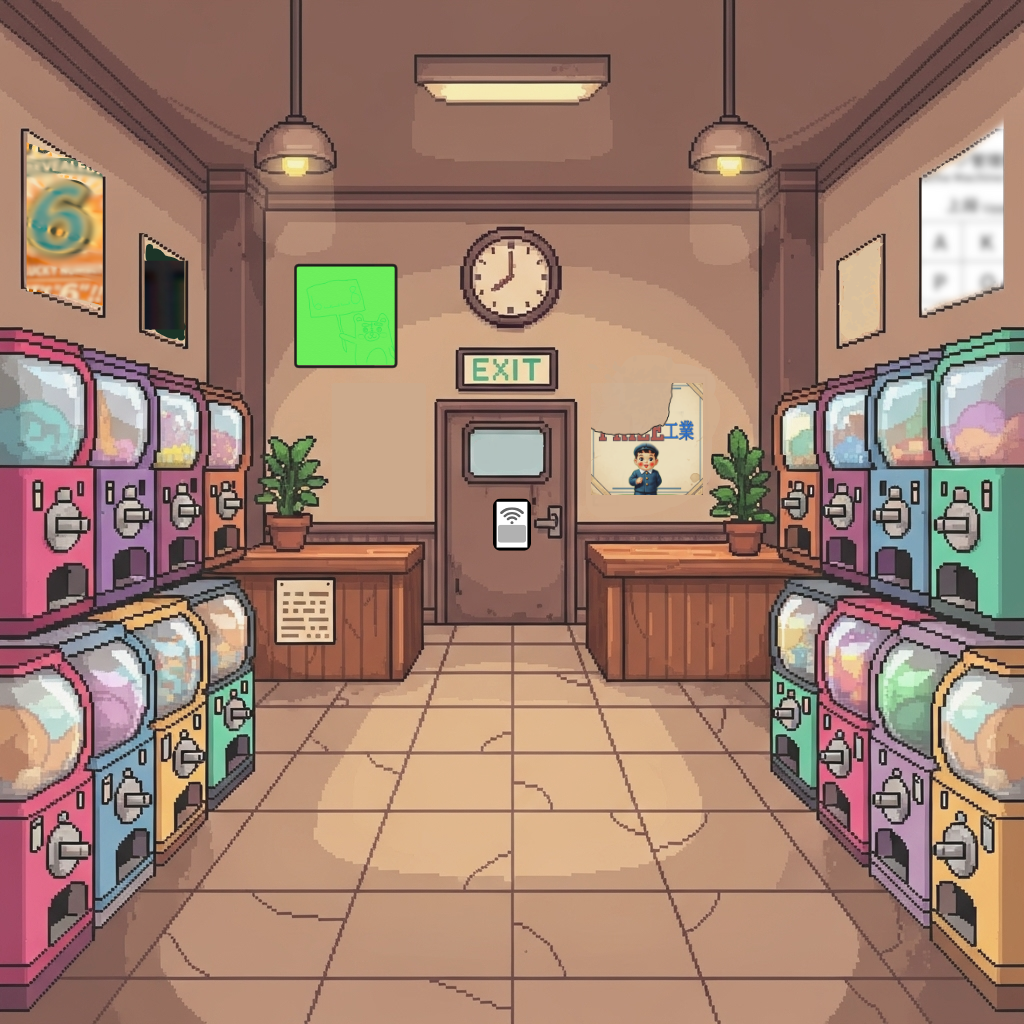
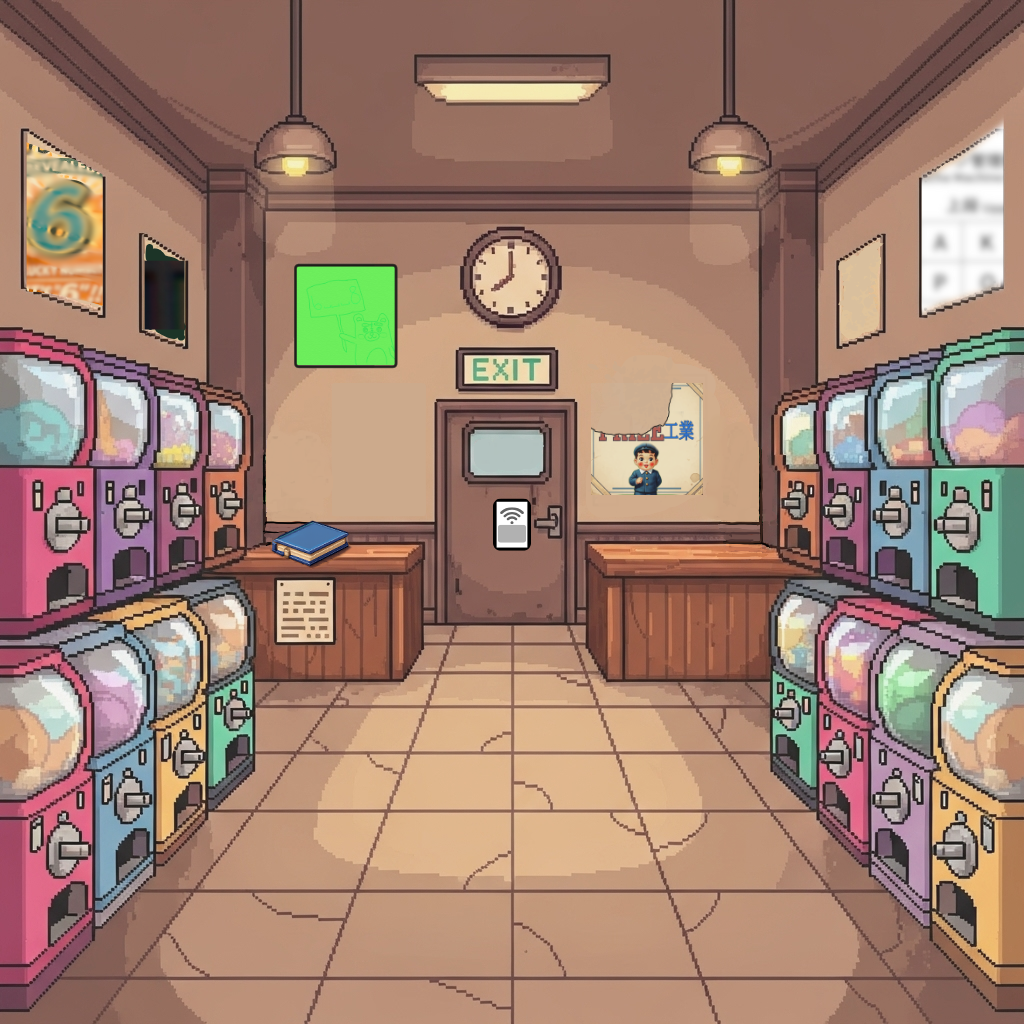
25 add

Changed region(s): [[0.25, 0.4062, 0.3438, 0.5625], [0.6875, 0.4062, 0.75, 0.5625]]

diff --git a/8f3c9a2d7b.html b/8f3c9a2d7b.html
@@ -1276,12 +1276,11 @@
 
                 main: ['images/25/main.png'],
                 window: ['images/25/window.png', 'images/25/window2.png', 'images/25/window3.png', 'images/25/window4.png', 'images/25/window5.png'],
-                outside: ['images/25/outside.png'],
                 gachaRight: ['images/25/gacha_right.png'],
                 gachaLeft: ['images/25/gacha_left.png'],
 
                 end: ['images/25/end.png', 'images/25/end2.png'],
-                trueEnd: ['images/25/true_end.png'],
+                trueEnd: ['images/25/true_end.png', 'images/25/true_end2.jpeg'],
 
             },
             items: {
@@ -1345,8 +1344,9 @@
                 posterBear: 'images/25/modal_poster_bear.png',
                 posterBear3d: 'images/25/modal_poster_bear_3d.png',
                 capsuleHeaven: 'images/25/capsule_heaven.mp4',
-                map: 'images/25/map.png',
+                map: 'images/25/map.jpeg',
                 bearGlass: 'images/25/modal_bear_glass.jpeg',
+                glassQuestion: 'images/25/modal_glass_question.png',
                 badEnd: 'images/25/badend.png',
             },
         };
@@ -1529,7 +1529,7 @@
                     {
                         x: 44.7, y: 22.1, width: 10.2, height: 10.1,
                         onClick: clickWrap(function () {
-
+                            updateMessage('時計がある');
                         }),
                         description: '時計',
                         zIndex: 5,
@@ -1645,42 +1645,43 @@
                         usable: () => true,
                         item: { img: 'IMAGE_KEY', visible: () => true }
                     },
-                    {
-                        x: 69.3, y: 41.9, width: 5.9, height: 12.1,
-                        onClick: clickWrap(function () {
-                            updateMessage('何の変哲もない観葉植物だ');
-                        }),
-                        description: '植物右',
-                        zIndex: 1,
-                        usable: () => true,
-                        item: { img: 'IMAGE_KEY', visible: () => true }
-                    },
-                    {
-                        x: 70.5, y: 47.7, width: 3.5, height: 4.0,
-                        onClick: clickWrap(function () {
-                            acquireItemOnce('foundMedal', 'medal', 'メダルを見つけた', IMAGES.items.medal, 'メダルを手に入れた');
-                        }),
-                        description: '植物光、メダル',
-                        zIndex: 5,
-                        usable: () => gameState.main.flags.appearMedal && !gameState.main.flags.foundMedal,
-                        item: { img: 'shine', visible: () => gameState.main.flags.appearMedal && !gameState.main.flags.foundMedal }
-                    },
-                    {
-                        x: 25.4, y: 42.5, width: 6.1, height: 11.1,
-                        onClick: clickWrap(function () {
-                            updateMessage('何の変哲もない観葉植物だ');
-                        }),
-                        description: '植物左',
-                        zIndex: 5,
-                        usable: () => true,
-                        item: { img: 'IMAGE_KEY', visible: () => true }
-                    },
+                    // {
+                    //     x: 69.3, y: 41.9, width: 5.9, height: 12.1,
+                    //     onClick: clickWrap(function () {
+                    //         updateMessage('何の変哲もない観葉植物だ');
+                    //     }),
+                    //     description: '植物右',
+                    //     zIndex: 1,
+                    //     usable: () => true,
+                    //     item: { img: 'IMAGE_KEY', visible: () => true }
+                    // },
+
+                    // {
+                    //     x: 25.4, y: 42.5, width: 6.1, height: 11.1,
+                    //     onClick: clickWrap(function () {
+                    //         updateMessage('何の変哲もない観葉植物だ');
+                    //     }),
+                    //     description: '植物左',
+                    //     zIndex: 5,
+                    //     usable: () => true,
+                    //     item: { img: 'IMAGE_KEY', visible: () => true }
+                    // },
                     {
                         x: 26.7, y: 56.4, width: 6.1, height: 6.4,
                         onClick: clickWrap(function () {
                             updateMessage('「実験のため留守にします。クマ店主」と書いてある');
                         }),
                         description: 'カウンター貼り紙',
+                        zIndex: 5,
+                        usable: () => true,
+                        item: { img: 'IMAGE_KEY', visible: () => true }
+                    },
+                    {
+                        x: 26.2, y: 50.3, width: 8.0, height: 5.1,
+                        onClick: clickWrap(function () {
+                            talkToHintCharacter('main', 'diary');
+                        }),
+                        description: '本',
                         zIndex: 5,
                         usable: () => true,
                         item: { img: 'IMAGE_KEY', visible: () => true }
@@ -1826,9 +1827,9 @@
                                 renderCanvasRoom();
                                 showObj(
                                     null,
-                                    '…カツヨウ…<br>チリーン…<br>ドアのほうで音がした。',
+                                    '「…カツヨウ…」<br>チリーン…<br>近くで音がした。',
                                     IMAGES.modals.ghost1,
-                                    'カプセル君「…カツヨウ…」ドアのほうでチリーンと音がした。'
+                                    'カプセル君「…カツヨウ…」近くでチリーンと音がした。'
                                 );
                                 playSE('se-coin');
                             }
@@ -1893,9 +1894,24 @@
                         item: { img: 'coinYen', visible: () => !gameState.main.flags.foundYen }
                     },
                     {
+                        x: 60.2, y: 76.5, width: 4.7, height: 2.9,
+                        onClick: clickWrap(function () {
+                            acquireItemOnce('foundMedal', 'medal', 'メダルを見つけた', IMAGES.items.medal, 'メダルを手に入れた');
+                        }),
+                        description: 'メダル',
+                        zIndex: 5,
+                        usable: () => gameState.main.flags.appearMedal && !gameState.main.flags.foundMedal,
+                        item: { img: 'shine', visible: () => gameState.main.flags.appearMedal && !gameState.main.flags.foundMedal }
+                    },
+                    {
                         x: 11.3, y: 55.6, width: 29.8, height: 22.4,
                         onClick: clickWrap(function () {
-                            showBoxPuzzle();
+                            if (gameState.main.flags.gachaRight.solved) {
+                                showBoxPuzzle();
+                            } else {
+                                updateMessage('まだ反応がない…');
+                            }
+
                         }),
                         description: '箱閉じる',
                         zIndex: 5,
@@ -2219,6 +2235,16 @@
                         item: { img: 'capsuleBlue', visible: () => gachaLeft_isCapsuleVisible('g2') }
                     },
                     {
+                        x: 27.0, y: 56.1, width: 21.2, height: 14.2,
+                        onClick: clickWrap(function () {
+                            updateMessage('このガチャは無料なのかな？');
+                        }),
+                        description: 'FREEガチャ',
+                        zIndex: 5,
+                        usable: () => true,
+                        item: { img: 'IMAGE_KEY', visible: () => true }
+                    },
+                    {
                         x: 32.0, y: 76.3, width: 10.7, height: 9.8,
                         onClick: clickWrap(function () {
                             if (gameState.selectedItem == 'handleToy') {
@@ -2266,7 +2292,7 @@
                         }),
                         description: '無地のガチャカプセル取り出し口',
                         zIndex: 5,
-                        usable: () => gameState.main.flags.appearCard && !gameState.main.flags.gotCard ,
+                        usable: () => gameState.main.flags.appearCard && !gameState.main.flags.gotCard,
                         item: { img: 'cardKey', visible: () => gameState.main.flags.appearCard && !gameState.main.flags.gotCard }
                     },
                     {
@@ -2565,13 +2591,25 @@
                             if (gameState.selectedItem == 'glass') {
                                 showObj(null, 'クマ妖精に3Dメガネを渡してみた<br>「似合う？」', IMAGES.modals.bearGlass, 'クマ妖精に3Dメガネを渡した');
                                 removeItem('glass');
+                                gameState.trueEnd.flags.backgroundState++;
+                                renderCanvasRoom();
                             } else {
                                 updateMessage('カプセルの分解具合を眺めているようだ');
                             }
                         }),
                         description: 'クマ妖精',
                         zIndex: 5,
-                        usable: () => true,
+                        usable: () => gameState.trueEnd.flags.backgroundState == 0,
+                        item: { img: 'IMAGE_KEY', visible: () => true }
+                    },
+                    {
+                        x: 25.2, y: 14.3, width: 48.0, height: 57.5,
+                        onClick: clickWrap(function () {
+                            updateMessage('えへへ');
+                        }),
+                        description: '立ったクマ妖精',
+                        zIndex: 5,
+                        usable: () => gameState.trueEnd.flags.backgroundState == 1,
                         item: { img: 'IMAGE_KEY', visible: () => true }
                     },
                     {
@@ -2610,7 +2648,14 @@
                 ghost3: [
                     'カプセル君「…！…」',
                     'カプセル君「…ソンナ、カツヨウホウガ…」',
-                ]
+                ],
+                diary: [
+                    '日記のようだ',
+                    '「12/12 カプセル君が生まれちゃった」',
+                    '「12/15 お客さんから苦情が来ちゃった…」',
+                    '「12/22 分解できるプラスチックがあるんだって。カプセル君喜ぶかな」',
+                ],
+
             },
         };
 
@@ -3036,6 +3081,17 @@
             setTimeout(() => document.documentElement.classList.remove('fx-shake'), 120);
         }
 
+        // 画面揺れ
+        function screenShake(el = document.documentElement, ms = 120, cls = 'fx-shake') {
+            if (!el) return;
+            // 連打でも必ず発火させる
+            el.classList.remove(cls);
+            void el.offsetHeight; // reflow
+            el.classList.add(cls);
+            setTimeout(() => el.classList.remove(cls), ms);
+        }
+
+
 
         function toggleNight() {
 
@@ -3357,7 +3413,7 @@
             }
 
             const modalContent = `
-            <div class="login-container">
+            <div>
                 <div class="login-form">
                     <h3 class="login-title">箱のロック</h3>
                     <label>パスワード</label>
@@ -3397,13 +3453,14 @@
 
             let msg = '';
             const modalContent = `
-            <div class="login-container">
-                <div class="login-form">
+            <div>
+                <div>
                     <img src="${IMAGES.modals.map}" alt="地図" style="max-width: 400px; border-radius: 10px;">
                     <p>${msg}</p>
-                    <label>パスワード</label>
-                    <input type="text" class="puzzle-input" id="cInput" placeholder="数字">
-                    <input type="text" class="puzzle-input" id="cInput2" placeholder="数字">
+                    
+                    <input type="text" class="puzzle-input" id="cInput" placeholder="数字" style="width:50px;">
+                    <label>,</label>
+                    <input type="text" class="puzzle-input" id="cInput2" placeholder="数字" style="width:50px;">
                     <br>
                     <button class="login-btn" onclick="checkCoordinatePuzzle()">OK</button>
                     <button class="cancel-btn" onclick="closeModal()">閉じる</button>
@@ -3433,9 +3490,10 @@
                 gameState.main.flags.unlockCoordinate = true;
 
                 markProgress('coordinate_normal_unlock_25');
+                screenShake(document.documentElement, 120, 'fx-shake');
 
                 showModal(
-                    '反応があった',
+                    'ゴゴゴゴゴ…',
                     '',
                     [{ text: '閉じる', action: 'close' }]
                 );
@@ -3596,48 +3654,71 @@
         }
 
         function tryCombineCapsuleShellWithFrame(targetItemId) {
-            // 対象（表記ゆれ対策で両方対応）
-            const isFrame = (targetItemId === 'glassFrame' || targetItemId === 'grassFrame');
+            const isFrame = (targetItemId === 'glassFrame');
             if (!isFrame) return false;
 
             // 両方の殻が必要（どっちで開始しても両方消費）
             if (!hasItem('emptyCapsuleBlue') || !hasItem('emptyCapsuleRed')) return false;
 
-            // 生成アイテム（表記ゆれ対策）
-            const resultItemId = (targetItemId === 'grassFrame') ? 'grass' : 'glass';
+            // 生成アイテム
+            const resultItemId = 'glass';
 
-            // 消費：フレーム1つ + 殻2つ
-            removeItem(targetItemId);
-            removeItem('emptyCapsuleBlue');
-            removeItem('emptyCapsuleRed');
-
-            addItem(resultItemId);
             showModal(
-                'メガネフレームにカプセルの殻をはめた。',
-                `
+                '<div style="text-align:center;">メガネフレームにカプセルの殻をはめますか？</div>',
+                `<img src="${IMAGES.modals.glassQuestion}" alt="地図" style="max-width: 400px; border-radius: 10px;">`,
+                [
+                    {
+                        text: 'はい',
+                        action: () => {
+                            closeModal();
+                            // 消費：フレーム1つ + 殻2つ
+                            removeItem(targetItemId);
+                            removeItem('emptyCapsuleBlue');
+                            removeItem('emptyCapsuleRed');
+
+                            addItem(resultItemId);
+                            showModal(
+                                'メガネフレームにカプセルの殻をはめた。',
+                                `
                                     <div class="modal-anim fast">
                                     <img src="${IMAGES.modals.glassSet}">
                                     <img src="${IMAGES.items.glass}">
                                     </div>
                                     `,
-                [
+                                [
+                                    {
+                                        text: '閉じる',
+                                        action: () => {
+                                            closeModal();
+                                        },
+                                    }
+                                ]
+                            );
+                            updateMessage('メガネフレームにカプセルの殻をはめた');
+
+
+                            // もし既存フラグがあるなら立てる（無ければ消してOK）
+                            if (gameState.main && gameState.main.flags && typeof gameState.main.flags.found3DGlass !== 'undefined') {
+                                gameState.main.flags.found3DGlass = true;
+                            }
+                            markProgress('3d_success_25');
+
+                            return true;
+                        }
+                    },
                     {
-                        text: '閉じる',
-                        action: () => {
+                        text: 'いいえ', action: () => {
                             closeModal();
-                        },
+                            updateMessage('');
+                            return false;
+                        }
                     }
                 ]
             );
+            return false;
 
 
-            // もし既存フラグがあるなら立てる（無ければ消してOK）
-            if (gameState.main && gameState.main.flags && typeof gameState.main.flags.found3DGlass !== 'undefined') {
-                gameState.main.flags.found3DGlass = true;
-            }
-            markProgress('3d_success_25');
 
-            return true;
         }
 
 
